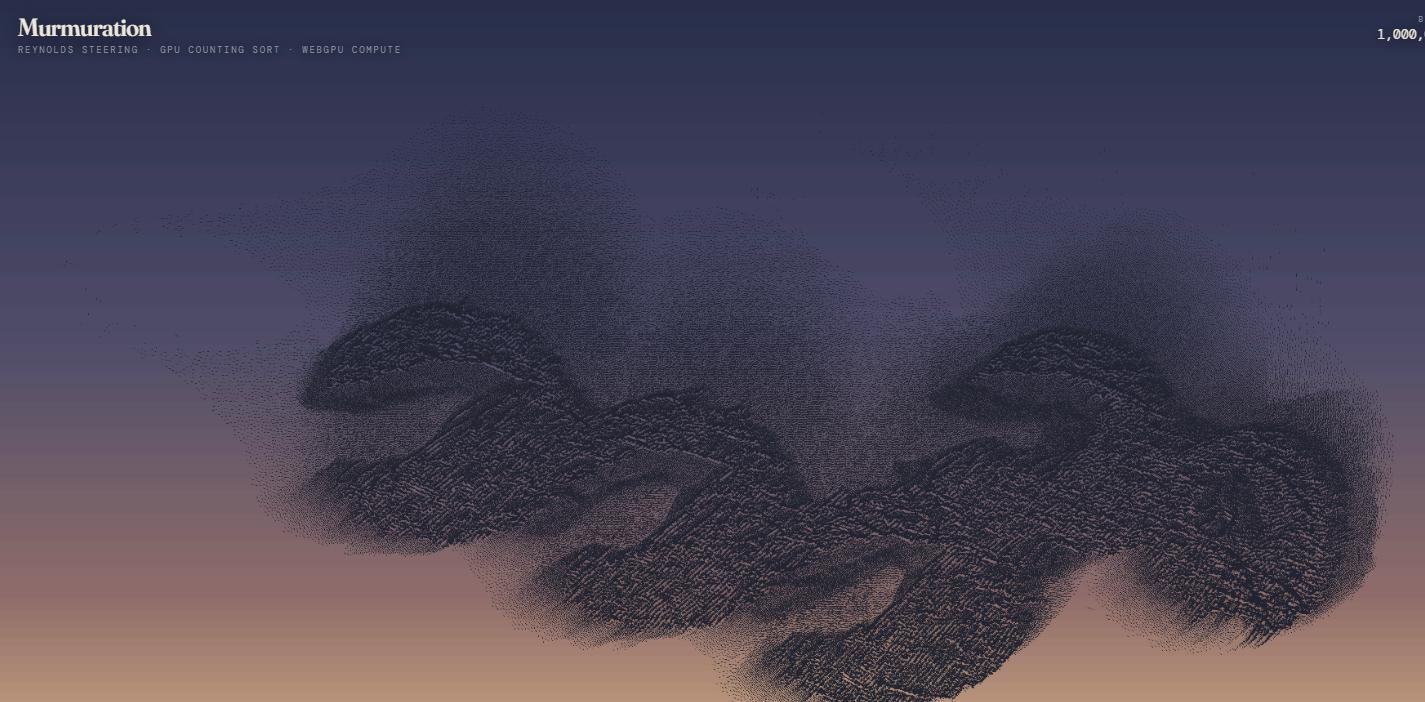
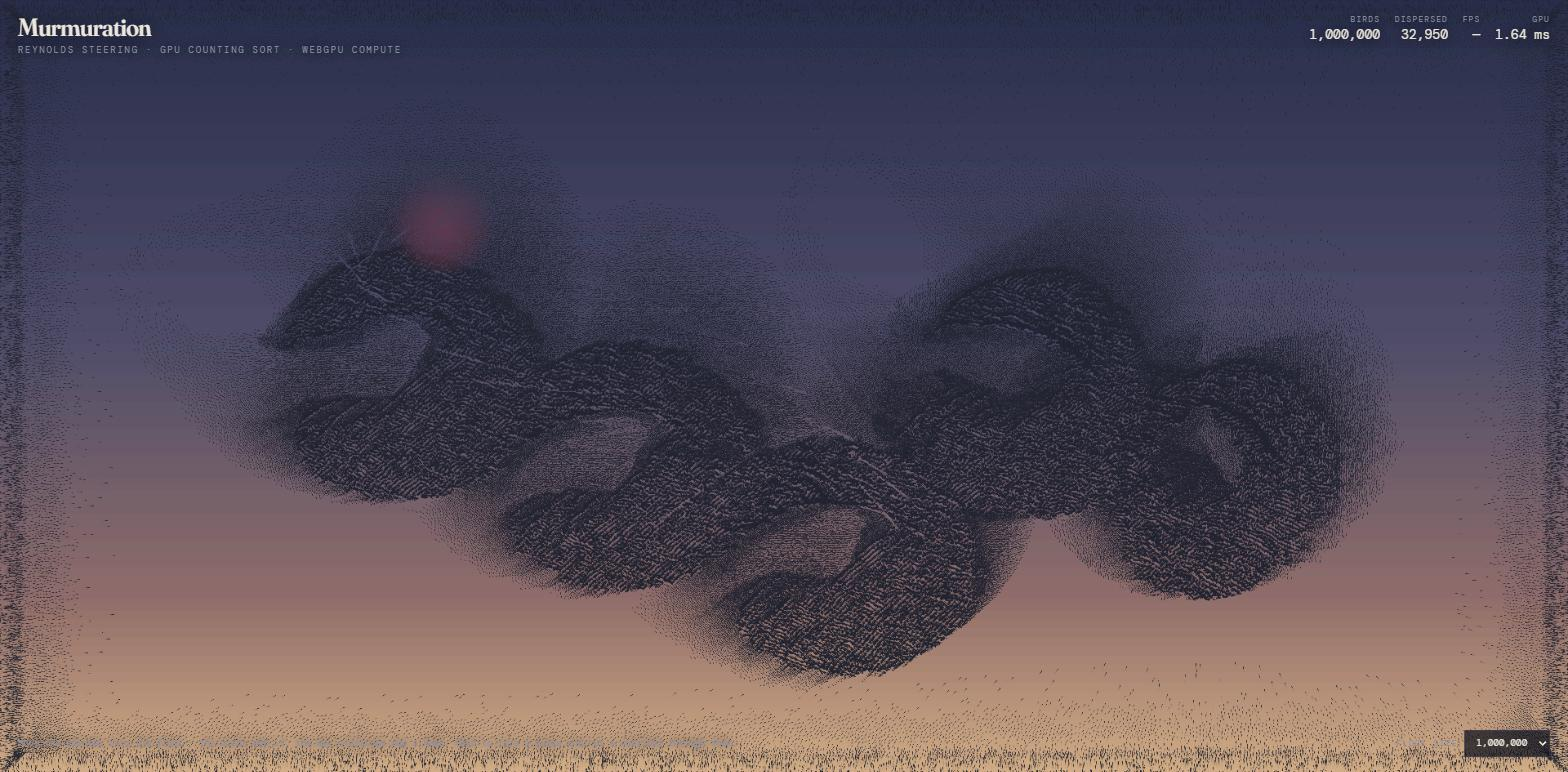
Wire collision into the app: hold to fire, birds disperse
Pulse rounds are CPU-authoritative and few, uploaded each frame as
probes; everything they hit resolves on the GPU. Aim follows pointer
travel so rounds go where the drone is heading, with a rotating spread
so a stationary pointer fans rather than drilling one spot.

Pass order is load-bearing: index, then collide, then steer. The
spatial index has to still describe where the birds are when collision
tests them, and the steering pass is what moves them. Flock.record is
split into recordIndex/recordSteer to leave that gap.

Birds dispersed by a pulse fly a replacement in off the edge on the
next frame, so the roost holds its size.

Verified at 1M: 32,950 dispersed over ~150 frames of simulated firing,
GPU 1.64 ms.

Known cosmetic issue: respawning birds bunch along the world edges,
partly transit and partly position clamping pinning them at the
boundary.

Claude-Session: https://claude.ai/code/session_01LMtfzufzZ5artARZZQerqr

diff --git a/src/app.ts b/src/app.ts
@@ -2,8 +2,16 @@ import { initGpu } from "./gpu/device";
 import { PassTimer } from "./gpu/timing";
 import { Flock } from "./sim/flock";
 import { Renderer } from "./render/renderer";
+import { Collider, PROBE_STRIDE, STATUS_KILLS, STATUS_SIZE } from "./sim/collide";
+import { Readback } from "./gpu/readback";
 
 const CELL = 8;
+const MAX_PULSES = 96;
+const PULSE_SPEED = 620;
+const PULSE_LIFE = 1.15;
+const PULSE_RADIUS = 5;
+const FIRE_INTERVAL = 0.05;
+const HULL_RADIUS = 11;
 /** Mean birds per cell. Drives how fine the grid is for a given flock size. */
 const TARGET_OCCUPANCY = 5.2;
 
@@ -12,6 +20,7 @@ const fpsEl = document.getElementById("fps") as HTMLElement;
 const gpuEl = document.getElementById("gpums") as HTMLElement;
 const countEl = document.getElementById("count") as HTMLElement;
 const select = document.getElementById("agents") as HTMLSelectElement;
+const dispersedEl = document.getElementById("dispersed") as HTMLElement;
 const fail = document.getElementById("fail") as HTMLElement;
 
 /** Grid shaped to the canvas so the world is not distorted when drawn. */
@@ -30,13 +39,30 @@ async function main(): Promise<void> {
   const aspect = Math.max(0.4, canvas.clientWidth / Math.max(1, canvas.clientHeight));
 
   let flock: Flock | null = null;
+  let collider: Collider | null = null;
+  let readback: Readback | null = null;
   let agents = Number(select.value);
+
+  interface Pulse { x: number; y: number; vx: number; vy: number; t: number }
+  let pulses: Pulse[] = [];
+  const probeData = new Float32Array(((MAX_PULSES + 1) * PROBE_STRIDE) / 4);
+  let dispersed = 0;
 
   const build = (n: number) => {
     const { gx, gy } = gridFor(n, aspect);
     flock = new Flock(device, { agents: n, gridX: gx, gridY: gy, cellSize: CELL });
+    collider?.destroy();
+    collider = new Collider(device, flock.spatial, MAX_PULSES + 1, {
+      pos: flock.pos,
+      alive: flock.alive,
+    });
+    readback?.destroy();
+    readback = new Readback(device, STATUS_SIZE, 3);
     renderer.setBuffers(flock.pos, flock.vel, flock.alive, flock.world);
     countEl.textContent = n.toLocaleString("en-US");
+    pulses = [];
+    dispersed = 0;
+    dispersedEl.textContent = "0";
   };
   build(agents);
 
@@ -49,17 +75,43 @@ async function main(): Promise<void> {
   let predX = -1e6;
   let predY = -1e6;
   let predActive = false;
+  let firing = false;
+  let fireCd = 0;
+  // Aim follows pointer travel, so rounds go where the drone is heading.
+  let aimX = 1;
+  let aimY = 0;
+  let spray = 0;
+
   const toWorld = (ev: PointerEvent) => {
     if (!flock) return;
     const r = canvas.getBoundingClientRect();
-    predX = ((ev.clientX - r.left) / r.width) * flock.world[0];
-    predY = ((ev.clientY - r.top) / r.height) * flock.world[1];
+    const nx = ((ev.clientX - r.left) / r.width) * flock.world[0];
+    const ny = ((ev.clientY - r.top) / r.height) * flock.world[1];
+    if (predActive) {
+      const dx = nx - predX;
+      const dy = ny - predY;
+      const l = Math.hypot(dx, dy);
+      if (l > 1.5) {
+        aimX = dx / l;
+        aimY = dy / l;
+      }
+    }
+    predX = nx;
+    predY = ny;
     predActive = true;
   };
   canvas.addEventListener("pointermove", toWorld);
-  canvas.addEventListener("pointerdown", toWorld);
+  canvas.addEventListener("pointerdown", (ev) => {
+    canvas.setPointerCapture?.(ev.pointerId);
+    toWorld(ev);
+    firing = true;
+  });
+  window.addEventListener("pointerup", () => {
+    firing = false;
+  });
   canvas.addEventListener("pointerleave", () => {
     predActive = false;
+    firing = false;
   });
 
   const timer = new PassTimer(device, timestamps, 12);
@@ -98,9 +150,65 @@ async function main(): Promise<void> {
       timingBusy = true;
     }
 
+    // Pulses: spawn, advance, retire.
+    fireCd -= dt;
+    if (firing && predActive && fireCd <= 0 && pulses.length < MAX_PULSES) {
+      fireCd = FIRE_INTERVAL;
+      // A stationary pointer would fire a single stream into one spot; rotating
+      // the spread turns it into a fan the flock has to part around.
+      spray += 0.6;
+      const jitter = Math.sin(spray) * 0.22;
+      const cs = Math.cos(jitter);
+      const sn = Math.sin(jitter);
+      pulses.push({
+        x: predX,
+        y: predY,
+        vx: (aimX * cs - aimY * sn) * PULSE_SPEED,
+        vy: (aimX * sn + aimY * cs) * PULSE_SPEED,
+        t: 0,
+      });
+    }
+    for (let i = pulses.length - 1; i >= 0; i--) {
+      const u = pulses[i] as Pulse;
+      u.x += u.vx * dt;
+      u.y += u.vy * dt;
+      u.t += dt;
+      if (u.t > PULSE_LIFE || u.x < -40 || u.x > wx + 40 || u.y < -40 || u.y > wy + 40) {
+        pulses.splice(i, 1);
+      }
+    }
+
+    let probeCount = 0;
+    for (const u of pulses) {
+      const o = probeCount * 4;
+      probeData[o] = u.x;
+      probeData[o + 1] = u.y;
+      probeData[o + 2] = PULSE_RADIUS;
+      probeData[o + 3] = 0;
+      probeCount++;
+    }
+    if (predActive) {
+      const o = probeCount * 4;
+      probeData[o] = predX;
+      probeData[o + 1] = predY;
+      probeData[o + 2] = HULL_RADIUS;
+      probeData[o + 3] = 1;
+      probeCount++;
+    }
+
     const enc = device.createCommandEncoder();
-    flock.record(enc, measure ? timer : undefined);
+
+    // Order matters: the index must describe where the birds are when collision
+    // tests them, and recordSteer is what moves them.
+    flock.recordIndex(enc, measure ? timer : undefined);
+    if (collider && probeCount > 0) {
+      collider.writeProbes(probeData, probeCount);
+      collider.resetStatus(frame);
+      collider.record(enc, probeCount, measure ? timer : undefined);
+    }
+    flock.recordSteer(enc, measure ? timer : undefined);
     if (measure) timer.finish(enc);
+    if (collider && readback) readback.record(enc, collider.status);
     renderer.render(enc, flock.cfg.agents, {
       dusk: 0.15,
       fade: 0.3,
@@ -111,6 +219,18 @@ async function main(): Promise<void> {
       inkAlpha: 0.82,
     });
     device.queue.submit([enc.finish()]);
+
+    if (readback) {
+      readback.kick();
+      const latest = readback.latest();
+      if (latest) {
+        const k = latest[STATUS_KILLS] ?? 0;
+        if (k > 0) {
+          dispersed += k;
+          dispersedEl.textContent = dispersed.toLocaleString("en-US");
+        }
+      }
+    }
 
     if (measure) {
       // Resolved off the critical path: awaiting here would stall the pipeline.

diff --git a/src/sim/flock.ts b/src/sim/flock.ts
@@ -226,10 +226,19 @@ export class Flock {
     this.device.queue.writeBuffer(this.params, 0, buf);
   }
 
-  /** Bin, gather into cell order, steer, then carry the alive flags forward. */
-  record(encoder: GPUCommandEncoder, timer?: PassTimer): void {
+  /**
+   * Build the spatial index over the current positions.
+   *
+   * Split from the steering pass so gameplay collision can run between the
+   * two: it needs an index that still describes where the birds are, and
+   * `recordSteer` is what moves them.
+   */
+  recordIndex(encoder: GPUCommandEncoder, timer?: PassTimer): void {
     this.spatial.record(encoder, timer);
+  }
 
+  /** Gather into cell order, then steer. */
+  recordSteer(encoder: GPUCommandEncoder, timer?: PassTimer): void {
     const groups = Math.ceil(this.cfg.agents / 256);
     const run = (
       pipeline: GPUComputePipeline,
@@ -247,5 +256,11 @@ export class Flock {
     run(this.reorderPipe, this.bgReorder, "reorder");
     run(this.flockPipe, this.bgFlock, "flock");
     this.frame++;
+  }
+
+  /** Index and steer in one go, for callers with no collision to interleave. */
+  record(encoder: GPUCommandEncoder, timer?: PassTimer): void {
+    this.recordIndex(encoder, timer);
+    this.recordSteer(encoder, timer);
   }
 }

diff --git a/index.html b/index.html
@@ -93,6 +93,7 @@
     </div>
     <div class="stats">
       <div><span class="k">Birds</span><span class="v" id="count">—</span></div>
+      <div><span class="k">Dispersed</span><span class="v" id="dispersed">0</span></div>
       <div><span class="k">FPS</span><span class="v" id="fps">—</span></div>
       <div><span class="k">GPU</span><span class="v"><span id="gpums">—</span> ms</span></div>
     </div>
@@ -101,7 +102,7 @@
   <div></div>
 
   <div class="bottom">
-    <p class="hint">Move the pointer into the flock — the birds mob it, the way starlings mob a hawk.</p>
+    <p class="hint">Move the pointer into the flock — the birds mob it, the way starlings mob a hawk. Hold to fire a pulse and cut a corridor through them.</p>
     <label for="agents">Flock size
       <select id="agents">
         <option value="250000">250,000</option>
